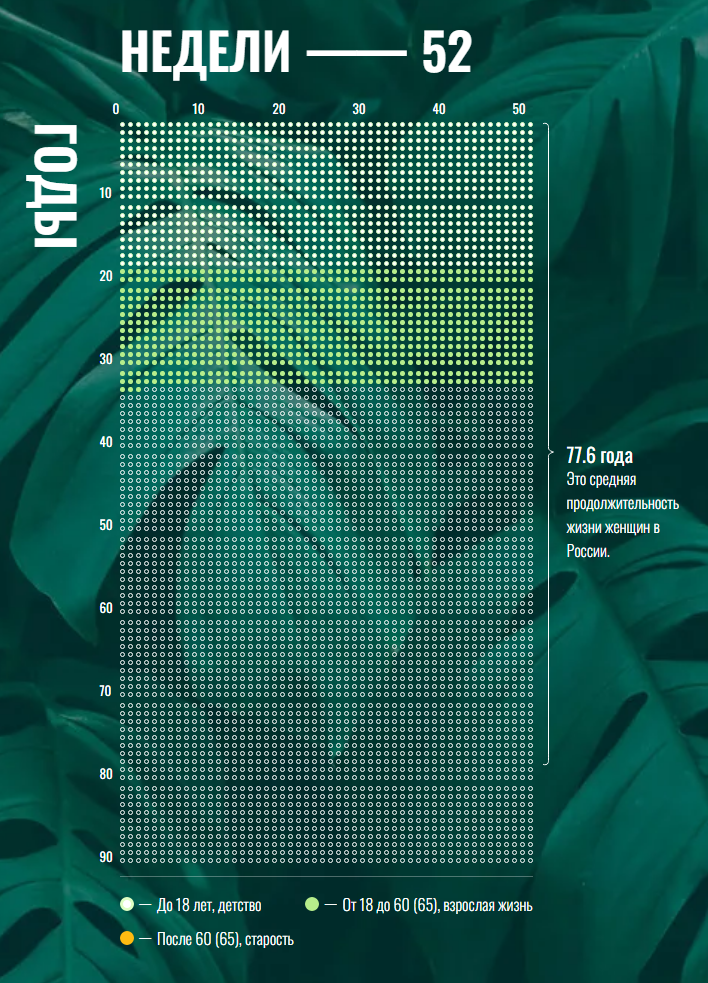
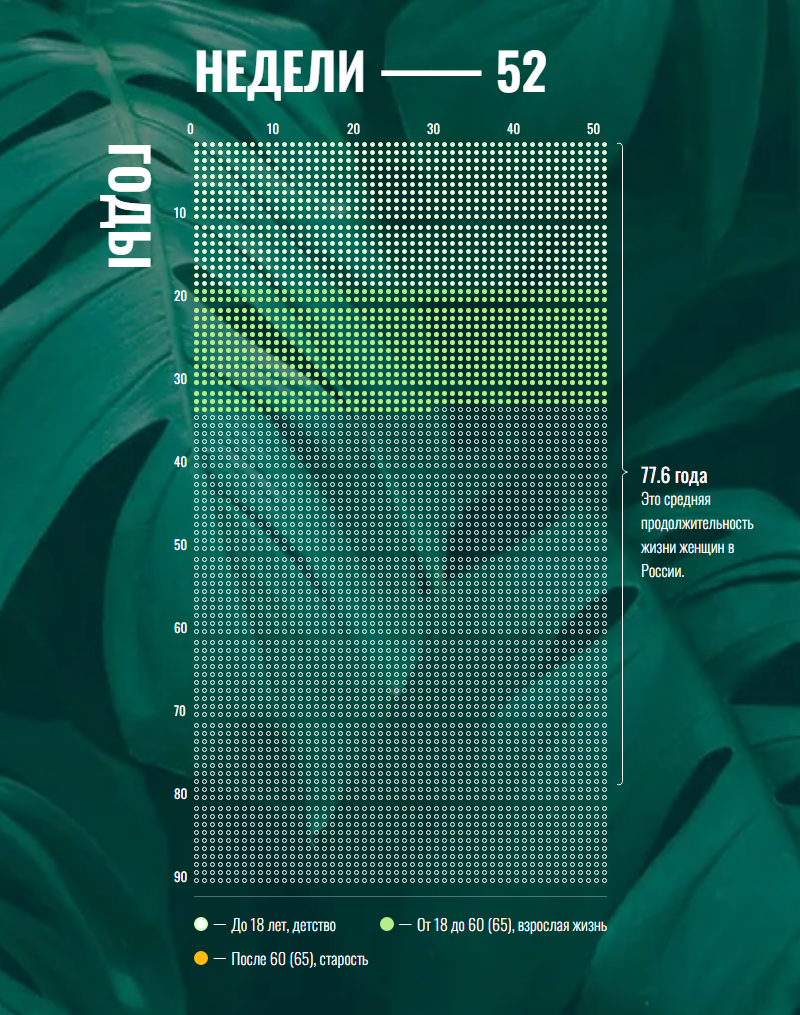
updates portal and table descriptions

diff --git a/pages/portal/index.html b/pages/portal/index.html
@@ -105,7 +105,7 @@
         <div class="step step-row">
           <div class="step-description">
             <p class="step-p">Портал ЖКХ почти полностью состоит из форм и таблиц, так как он предназначен для обмена большими массивами данных между жителями и службами ЖКХ.</p>
-            <p class="step-p">Моя работа над проектом началась с разработки недостающих элементов для главной страницы. Например, подробная форма регистрации.</p>
+            <p class="step-p">Моя работа над проектом началась с разработки недостающих элементов для главной страницы. Например, подробной формы регистрации.</p>
           </div>
           <div class="step-images step-images-single">
             <a href="images/portal-form.png" target="_blank"><img class="step-image" src="images/portal-form.png"></a>
@@ -113,7 +113,7 @@
         </div>
         <div class="step step-row">
           <div class="step-description">
-            <p class="step-p">Или набор иконок для блока с описанием возможностей Портала.</p>
+            <p class="step-p">Или набора иконок для блока с описанием возможностей Портала.</p>
           </div>
           <div class="step-images step-images-single">
             <a href="images/portal-icons.png" target="_blank"><img class="step-image" src="images/portal-icons.png"></a>
@@ -122,7 +122,7 @@
         <div class="step step-row">
           <div class="step-description">
             <p class="step-p">Максимум возможностей доступен в личном кабинете пользователя. Я разработала дизайн страниц личного кабинета, опираясь на список необходимых разделов и определённую заранее палитру цветов.</p>
-            <p class="step-p">«Рабочий стол» это стартовая страница при входе в личный кабинет. На ней в кратком виде представлены информация и услуги, за которыми жители обращаются чаще всего. Большинство пользователей может делать всё необходимое, даже никогда не заходя в многочисленные разделы, представленные в меню слева.</p>
+            <p class="step-p">«Рабочий стол» это стартовая страница при входе в личный кабинет. Он предоставляет быстрый доступ к услугам, за которыми жители обращаются чаще всего.</p>
           </div>
           <div class="step-images step-images-single">
             <a href="images/portal-desktop.png" target="_blank"><img class="step-image" src="images/portal-desktop.png"></a>
@@ -130,7 +130,7 @@
         </div>
         <div class="step step-row">
           <div class="step-description">
-            <p class="step-p">Страница оплаты и истории платежей.</p>
+            <p class="step-p">На странице оплаты, помимо самой формы оплаты, требовалось так же представить историю платежей в табличном виде. Таблица, тянущаяся вширь, определила и дизайн формы оплаты, поэтому я разместила информацию о сумме к оплате и комиссии слева и справа от формы.</p>
           </div>
           <div class="step-images step-images-single">
             <a href="images/portal-pay.png" target="_blank"><img class="step-image" src="images/portal-pay.png"></a>
@@ -138,7 +138,7 @@
         </div>  
         <div class="step step-row">
           <div class="step-description">
-            <p class="step-p">Дизайн таблиц.</p>
+            <p class="step-p">Большая часть контента Портала это таблицы, поэтому было важно сделать их максимально читаемыми.</p>
           </div>
           <div class="step-images step-images-single">
             <a href="images/portal-tables.png" target="_blank"><img class="step-image" src="images/portal-tables.png"></a>
@@ -146,7 +146,7 @@
         </div>
         <div class="step step-row">
           <div class="step-description">
-            <p class="step-p">Некоторые таблицы интерактивные и позволяют узнать подробности об информации в ячейке.</p>
+            <p class="step-p">Также нужна была возможность показать комментарии к значениям в ячейках. И эти комментарии тоже могли иметь табличную форму! Я решила отказаться от всплывающих окон и выводить детализацию прямо в таблице, между строк.</p>
           </div>
           <div class="step-images step-images-single">
             <a href="images/portal-tables-details.png" target="_blank"><img class="step-image" src="images/portal-tables-details.png"></a>
@@ -154,7 +154,7 @@
         </div>
         <div class="step step-row">
           <div class="step-description">
-            <p class="step-p">Страница подачи обращений и истории обращений.</p>
+            <p class="step-p">На странице обращений сегодня некоторые элементы я сделала бы по-другому. Например, уменьшила бы ширину поля для ввода, чтобы текст легче читался. В истории обращений первым вывела бы текст сообщения, чтобы было легче найти нужное, т.к. пользователи скорее узнают обращение по первым словам, чем по способу подачи.</p>
           </div>
           <div class="step-images step-images-single">
             <a href="images/portal-text.png" target="_blank"><img class="step-image" src="images/portal-text.png"></a>

diff --git a/index.html b/index.html
@@ -54,6 +54,18 @@
         </article>
         <article class="project">
           <header class="project-header">
+            <time class="project-date">2019</time>
+            <h3 class="project-title"><a class="project-title-link not-ready" href="#"><span class="project-title-dash">Motiva</span><span class="project-title-shift">tional</span><span class="project-title-shift">service</span></a></h3>
+            <div class="project-description">
+              <p class="project-p">Educational project for the course of basic programming, created in the form of interactive infographic. Design and coding made by me.</p>
+            </div>
+          </header>
+          <div class="project-info">
+            <img class="project-cover" src="images/int-info1.png">
+          </div>
+        </article>        
+        <article class="project">
+          <header class="project-header">
             <time class="project-date">2015</time>
             <h3 class="project-title"><a class="project-title-link not-ready" href="#"><span class="project-title-dash">Info</span><span class="project-title-shift">graphics</span></a></h3>
             <div class="project-description">
@@ -75,18 +87,6 @@
           </header>
           <div class="project-info">
             <img class="project-cover" src="images/exchange1.png">
-          </div>
-        </article>
-        <article class="project">
-          <header class="project-header">
-            <time class="project-date">2019</time>
-            <h3 class="project-title"><a class="project-title-link not-ready" href="#"><span class="project-title-dash">Motiva</span><span class="project-title-shift">tional</span><span class="project-title-shift">service</span></a></h3>
-            <div class="project-description">
-              <p class="project-p">Educational project for the course of basic programming, created in the form of interactive infographic. Design and coding made by me.</p>
-            </div>
-          </header>
-          <div class="project-info">
-            <img class="project-cover" src="images/int-info1.png">
           </div>
         </article>
         <article class="project">
@@ -181,6 +181,18 @@
         </article>
         <article class="project">
           <header class="project-header">
+            <time class="project-date">2019</time>
+            <h3 class="project-title"><a class="project-title-link" href="pages/motivate/index.html"><span class="project-title-dash">Мотива</span><span class="project-title-shift">ционный</span><span class="project-title-shift">сервис</span></a></h3>
+            <div class="project-description">
+              <p class="project-p">Учебный проект на курсе основ программирования, выполненный в виде интерактивной инфографики. Дизайн и вёрстка — мои.</p>
+            </div>
+          </header>
+          <div class="project-info">
+            <img class="project-cover" src="images/int-info1.png">
+          </div>
+        </article>        
+        <article class="project">
+          <header class="project-header">
             <time class="project-date">2015</time>
             <h3 class="project-title"><a class="project-title-link not-ready" href="#"><span class="project-title-dash">Инфо</span><span class="project-title-shift">графика</span></a></h3>
             <div class="project-description">
@@ -202,18 +214,6 @@
           </header>
           <div class="project-info">
             <img class="project-cover" src="images/exchange1.png">
-          </div>
-        </article>
-        <article class="project">
-          <header class="project-header">
-            <time class="project-date">2019</time>
-            <h3 class="project-title"><a class="project-title-link" href="pages/motivate/index.html"><span class="project-title-dash">Мотива</span><span class="project-title-shift">ционный</span><span class="project-title-shift">сервис</span></a></h3>
-            <div class="project-description">
-              <p class="project-p">Учебный проект на курсе основ программирования, выполненный в виде интерактивной инфографики. Дизайн и вёрстка — мои.</p>
-            </div>
-          </header>
-          <div class="project-info">
-            <img class="project-cover" src="images/int-info1.png">
           </div>
         </article>
         <article class="project">

diff --git a/pages/motivate/index.html b/pages/motivate/index.html
@@ -109,8 +109,10 @@
         </div>
         <div class="step step-row">
           <div class="step-description">
-            <p class="step-p">Смысловое ядро страницы это таблица, состоящая из точек. Каждая точка это одна неделя, а каждый ряд, состоящий из пятидесяти двух точек, это год. Вся таблица показывает, сколько недель в 90-та годах. Если ввести свою дату рождения, таблица заполнится, показывая прожитые недели.</p>
-            <p class="step-p">На этапе дизайна самым большим челленджем оказалось отрисовать 4680 точек в Figma. На этапе вёрстки это, наоборот, не вызвало проблем: точки проставляет короткий скрипт, клонирующий узлы.</p>
+            <p class="step-p">Этот проект задуман как одностраничный десктопный сервис.</p>
+            <p class="step-p">Смысловое ядро и центр композиции это таблица, состоящая из точек. Каждая точка это одна неделя, а каждый ряд, состоящий из пятидесяти двух точек, это год. Вся таблица показывает, сколько недель в девяностата годах. Если ввести свою дату рождения, таблица заполнится, показывая прожитые недели.</p>
+            <p class="step-p">На этапе дизайна самым большим челленджем оказалось отрисовать 4680 точек в Figma. (На этапе вёрстки это, наоборот, не вызвало проблем: точки проставляет короткий скрипт, клонирующий узлы).</p>
+            <p class="step-p">Когда все элементы заняли свои места, страница стала выглядеть слишком строго. Я использовала фото и тропическую цветовую гамму, чтобы смягчить общее впечатление, которое производит страница.</p>
           </div>
           <div class="step-images step-images-single">
             <a href="images/table.png" target="_blank"><img class="step-image" src="images/table.png"></a>
@@ -118,10 +120,10 @@
         </div>        
         <div class="step step-row">
           <div class="step-description">
-            <p class="step-p">Вокруг этого проекта построен курс «<a class="link" href="https://github.com/netology-code/sd-homeworks">Старт&nbsp;в&nbsp;программировании</a>»: учащимся предлагается написать недостающий JavaScript-код, в результате чего страница оживает и таблица начинает заполняться. Исходный код можно посмотреть в <a class="link" href="https://github.com/skorobaeus/sd-graphics">моём репо</a>.</p>
+            <p class="step-p">Вокруг этого проекта построен курс «<a class="link" href="https://github.com/netology-code/sd-homeworks">Старт&nbsp;в&nbsp;программировании</a>»: учащимся предлагается написать недостающий JavaScript-код, в результате чего таблица оживает и точки начинают окрашиваться. Исходный код можно посмотреть в <a class="link" href="https://github.com/skorobaeus/sd-graphics">моём репо</a>.</p>
           </div>
           <div class="step-footer">
-            <a class="link" href="#">Назад на главную</a>
+            <a class="link" href="../../index.html">Назад на главную</a>
           </div>
         </div>                                     
       </main>
